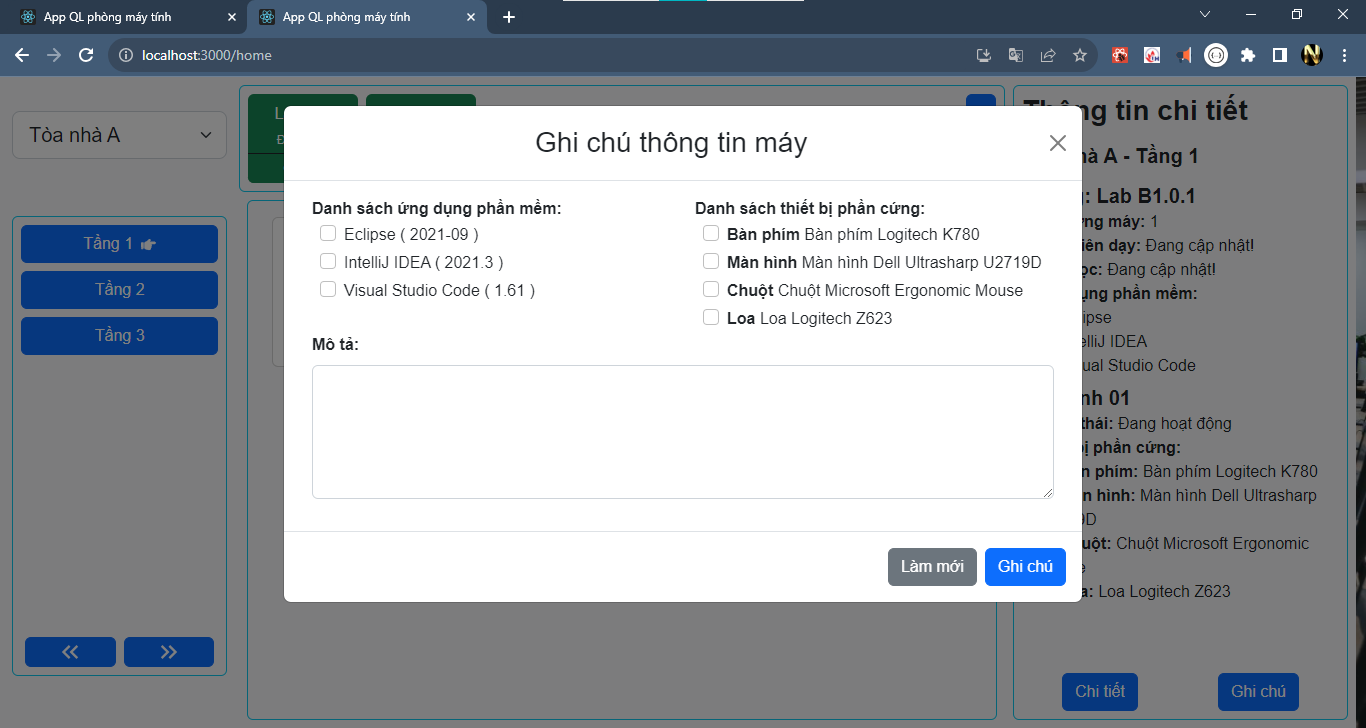
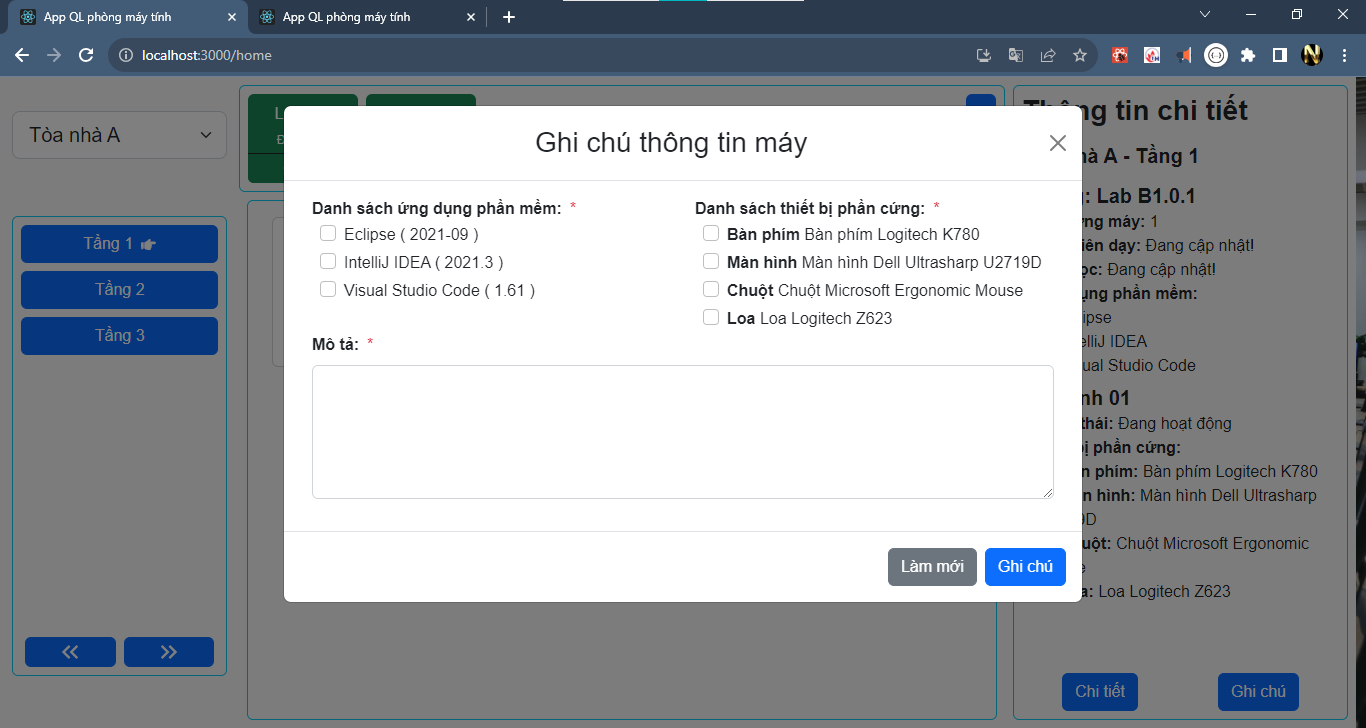
PageHome: finish GUI ghi chú

Changed region(s): [[0.0, 0.0, 0.369, 0.0604]]

diff --git a/src/components/layoutHome/ComponentModalGhiChu.jsx b/src/components/layoutHome/ComponentModalGhiChu.jsx
@@ -1,4 +1,4 @@
-import React from "react";
+import React, { useRef, useState } from "react";
 import { useSelector } from "react-redux";
 
 export default function ComponentModalGhiChu() {
@@ -7,6 +7,140 @@ export default function ComponentModalGhiChu() {
 
   //
   let { arrPhanMem, arrThietBi } = objThongTin;
+
+  //
+  const objGhiChu = useRef({
+    arrTbi: [],
+    arrPM: [],
+    txtGhiChu: "",
+  });
+
+  const [errGhiChu, setErrGhiChu] = useState({
+    arrTbi: "",
+    arrPM: "",
+    txtGhiChu: "",
+  });
+  //handle
+  const handleSubmit = (e) => {
+    e.preventDefault();
+
+    // kiểm tra arrPhanmem co data khong
+    if (arrPhanMem.length === 0) {
+      alert(
+        "Chưa có thông tin. Hãy chọn một phòng học khác hoặc một phòng máy khác!"
+      );
+      return;
+    }
+
+    if (!checkData()) {
+      //false
+      return;
+    }
+
+    // true
+    alert('Đang cập nhật!')
+    console.log(objGhiChu.current);
+
+  };
+  //
+  const checkData = () => {
+    let result = 1;
+    let err_arrTbi = "";
+    let err_arrPM = "";
+    let err_txtGhiChu = "";
+
+    let { arrPM, arrTbi, txtGhiChu } = objGhiChu.current;
+    //
+    if (arrPM.length === 0) {
+      err_arrPM = "Hãy nhập thông tin!";
+      result = 0;
+    } else {
+      err_arrPM = "";
+    }
+    //
+    if (arrTbi.length === 0 && arrThietBi.length !== 0 ) {
+      err_arrTbi = "Hãy nhập thông tin!";
+      result = 0;
+    } else {
+      err_arrTbi = "";
+    }
+    //
+    if (txtGhiChu.trim().length === 0) {
+      err_txtGhiChu = "Hãy nhập thông tin!";
+      result = 0;
+    } else {
+      err_txtGhiChu = "";
+    }
+
+    //
+    setErrGhiChu({
+      arrPM: err_arrPM,
+      arrTbi: err_arrTbi,
+      txtGhiChu: err_txtGhiChu,
+    });
+
+    return result;
+  };
+  //
+  const handleChangSelectPM = (e) => {
+    let { checked, value } = e.target;
+
+    let arrUpdate = objGhiChu.current.arrPM;
+
+    if (checked) {
+      arrUpdate.push(
+        arrPhanMem.find((item) => {
+          return item.maPhanMem == value;
+        })
+      );
+    } else {
+      arrUpdate = arrUpdate.filter((item) => item.maPhanMem != value);
+    }
+    //
+    objGhiChu.current.arrPM = [...arrUpdate];
+    if (objGhiChu.current.arrPM.length === 0) {
+      setErrGhiChu({ ...errGhiChu, arrPM: "Hãy chọn phần mềm!" });
+    } else {
+      setErrGhiChu({ ...errGhiChu, arrPM: "" });
+    }
+  };
+  //
+  const handleChangSelectTbi = (e) => {
+    let { checked, value } = e.target;
+
+    let arrUpdate = objGhiChu.current.arrTbi;
+
+    if (checked) {
+      arrUpdate.push(
+        arrThietBi.find((item) => {
+          return item.maThietBi == value;
+        })
+      );
+    } else {
+      arrUpdate = arrUpdate.filter((item) => item.maThietBi != value);
+    }
+
+    objGhiChu.current.arrTbi = [...arrUpdate];
+
+    //
+    objGhiChu.current.arrTbi = [...arrUpdate];
+    if (objGhiChu.current.arrTbi.length === 0) {
+      setErrGhiChu({ ...errGhiChu, arrTbi: "Hãy chọn thiết bị!" });
+    } else {
+      setErrGhiChu({ ...errGhiChu, arrTbi: "" });
+    }
+  };
+  //
+  const handleChangeTextGhiChu = (e) => {
+    let { id, value } = e.target;
+
+    objGhiChu.current[id] = value;
+    if (value.trim().length === 0) {
+      setErrGhiChu({ ...errGhiChu, [id]: "Hãy ghi chú ở đây!" });
+    } else {
+      setErrGhiChu({ ...errGhiChu, [id]: "" });
+    }
+  };
 
   // render
   const renderCheckBoxPhanMem = () => {
@@ -20,12 +154,13 @@ export default function ComponentModalGhiChu() {
             className="form-check-input "
             type="checkbox"
             value={item.maPhanMem}
-            id="flexCheckDefault"
+            id={`${item.maPhanMem}_PM`}
+            onChange={handleChangSelectPM}
           />
           <label
             className="form-check-label"
             style={{ paddingTop: "2px" }}
-            htmlFor="flexCheckDefault"
+            htmlFor={`${item.maPhanMem}_PM`}
           >
             {item.tenPhanMem} ( {item.phienBan} )
           </label>
@@ -43,12 +178,13 @@ export default function ComponentModalGhiChu() {
               className="form-check-input "
               type="checkbox"
               value={item.maThietBi}
-              id="flexCheckDefault"
+              id={`${item.maThietBi}_Tbi`}
+              onChange={handleChangSelectTbi}
             />
             <label
               className="form-check-label"
               style={{ paddingTop: "2px" }}
-              htmlFor="flexCheckDefault"
+              htmlFor={`${item.maThietBi}_Tbi`}
             >
               <strong>{item.loaiThietBi.tenLoai}</strong> {item.tenThietBi}
             </label>
@@ -112,7 +248,7 @@ export default function ComponentModalGhiChu() {
         aria-hidden="true"
       >
         <div className=" modal-dialog  modal-lg" role="document">
-          <form className="modal-content">
+          <form className="modal-content" onSubmit={handleSubmit}>
             <div className="modal-header">
               <h3 className="modal-title text-center w-100" id="modalTitleId">
                 Ghi chú thông tin máy
@@ -130,7 +266,11 @@ export default function ComponentModalGhiChu() {
 
                 <div className="row">
                   <div className="col-6">
-                    <strong>Danh sách ứng dụng phần mềm:</strong> <br />
+                    <strong>Danh sách ứng dụng phần mềm:</strong>
+                    <span className="text-danger mx-2">
+                      * {errGhiChu.arrPM}
+                    </span>
+                    <br />
                     <div
                       className="over_flow_auto"
                       style={{ maxHeight: "150px" }}
@@ -139,7 +279,11 @@ export default function ComponentModalGhiChu() {
                     </div>
                   </div>
                   <div className="col-6">
-                    <strong>Danh sách thiết bị phần cứng:</strong> <br />
+                    <strong>Danh sách thiết bị phần cứng:</strong>
+                    <span className="text-danger mx-2">
+                      * {errGhiChu.arrTbi}
+                    </span>
+                    <br />
                     <div
                       className="over_flow_auto"
                       style={{ maxHeight: "150px" }}
@@ -153,6 +297,9 @@ export default function ComponentModalGhiChu() {
                 <div className="mb-3">
                   <label htmlFor="txtGhiChu" className="form-label">
                     <strong>Mô tả:</strong>
+                    <span className="text-danger mx-2">
+                      * {errGhiChu.txtGhiChu}
+                    </span>
                   </label>
                   <textarea
                     className="form-control"
@@ -160,12 +307,24 @@ export default function ComponentModalGhiChu() {
                     id="txtGhiChu"
                     rows={5}
                     defaultValue={""}
+                    onChange={handleChangeTextGhiChu}
                   />
                 </div>
               </div>
             </div>
             <div className="modal-footer">
-              <button type="reset" className="btn btn-secondary">
+              <button
+                onChange={() => {
+                  //
+                  setErrGhiChu({
+                    arrPM: "",
+                    arrTbi: "",
+                    txtGhiChu: "",
+                  });
+                }}
+                type="reset"
+                className="btn btn-secondary"
+              >
                 Làm mới
               </button>
               <button type="submit" className="btn btn-primary">

diff --git a/src/redux/reducers/homeReducer.jsx b/src/redux/reducers/homeReducer.jsx
@@ -154,6 +154,7 @@ export const setObjThongTinByPhongMay = (valPhong) => {
       tang,
       mayTinh: {},
       arrPhanMem,
+      arrThietBi: [],
       giaoVien: {},
       nhanVien: {},
       monHoc: {},
@@ -181,6 +182,7 @@ export const setObjThongTinByTang = (valTang, arrPhongMay) => {
       mayTinh: {},
       arrPhanMem: [],
       giaoVien: {},
+      arrThietBi: [],
       nhanVien: {},
       monHoc: {},
     };
@@ -247,6 +249,7 @@ export const setObjThongTinByToaNha = (idSelect, arrPhongMay) => {
       tang: {},
       mayTinh: {},
       arrPhanMem: [],
+      arrThietBi: [],
       giaoVien: {},
       nhanVien: {},
       monHoc: {},
@@ -349,6 +352,7 @@ export const getPhongByFirst = async (dispatch) => {
       phong: { maPhong, tenPhong, moTa, soMay: mayTinhs.length },
       tang,
       mayTinh: {},
+      arrThietBi: [],
       arrPhanMem,
       giaoVien: {},
       nhanVien: {},
